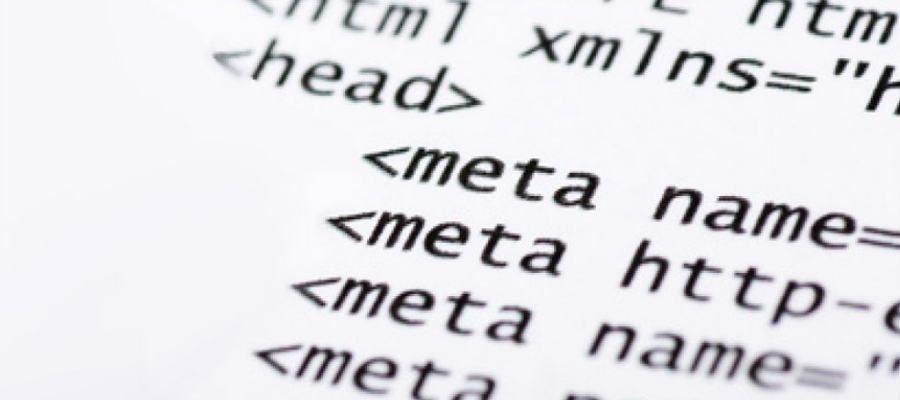
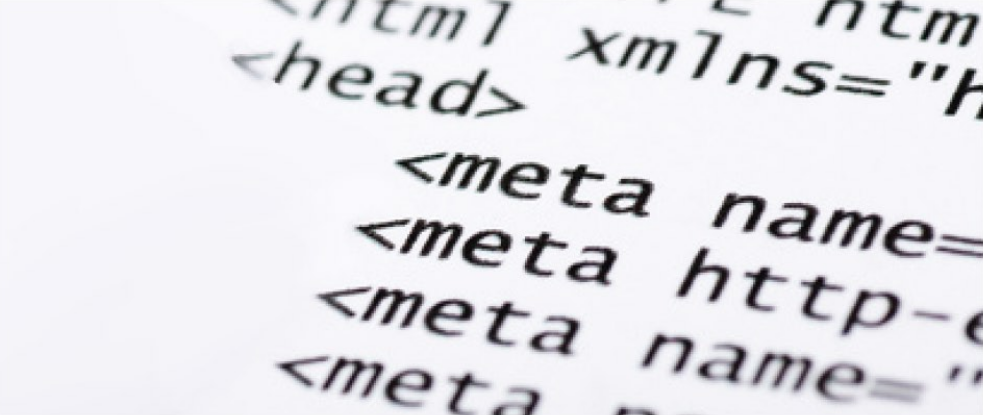
integrate code-review changes

diff --git a/index.html b/index.html
@@ -6,47 +6,47 @@
     <title>Ben's portfolio</title>
     <link rel="stylesheet" href="css/main.css">
   </head>
-  <body>
-    <main class="container">
-      <header class="item item-header">
-        <img class="udacity-img" src="img/udacity.svg" alt="udacity logo">
-        <section class="name-container">
-          <p>JANE DOETTE</p>
-          <p>FRONT-END NINJA</p>
-        </section>
-      </header>
-      <hr>
-      <article class="item">
-        <img class="web-img" src="img/web.png" alt="image with HTML code">
-      </article>
-      <article class="item">
-        <header class="work-item-header">
-          <h1>Featured Work</h1>
+  <body class="container">
+    <header class="item header">
+      <img class="header-picture" src="img/udacity.svg" alt="udacity logo">
+      <section class="header-id">
+        <p class="header-id-info header-id-name">JANE DOETTE</p>
+        <p class="header-id-info">FRONT-END NINJA</p>
+      </section>
+    </header>
+    <hr>
+    <main>
+      <section class="item">
+        <img class="web-picture" src="img/web.png" alt="image with HTML code">
+      </section>
+      <section class="item">
+        <header class="work-header">
+          <h1 class="work-header-label">Featured Work</h1>
         </header>
-        <section class="work-item-projects">
-          <section class="projects-item">
+        <section class="projects">
+          <article class="project">
             <figure>
-              <img src="img/project1.png" alt="first project">
-              <figcaption>APPIFY</figcaption>
+              <img class="project-picture" src="img/project1.png" alt="first project">
+              <figcaption class="project-figcaption">APPIFY</figcaption>
             </figure>
-            <a href="https://github.com/udacity/Appify/">https://github.com/udacity/Appify/</a>
-          </section>
-          <section class="projects-item">
+            <a class="project-anchor" href="https://github.com/udacity/Appify/" target="_blank">https://github.com/udacity/Appify/</a>
+          </article>
+          <article class="project">
             <figure>
-              <img src="img/project2.png" alt="second project">
-              <figcaption>SUNFLOWER</figcaption>
+              <img class="project-picture" src="img/project2.png" alt="second project">
+              <figcaption class="project-figcaption">SUNFLOWER</figcaption>
             </figure>
-            <a href="https://github.com/udacity/Sunflower/">https://github.com/udacity/Sunflower/</a>
-          </section>
-          <section class="projects-item">
+            <a class="project-anchor" href="https://github.com/udacity/Sunflower/" target="_blank">https://github.com/udacity/Sunflower/</a>
+          </article>
+          <article class="project">
             <figure>
-              <img src="img/project3.png" alt="third project">
-              <figcaption>BOKEH</figcaption>
+              <img class="project-picture" src="img/project3.png" alt="third project">
+              <figcaption class="project-figcaption">BOKEH</figcaption>
             </figure>
-            <a href="https://github.com/udacity/Bokeh/">https://github.com/udacity/Bokeh/</a>
-          </section>
+            <a class="project-anchor" href="https://github.com/udacity/Bokeh/" target="_blank">https://github.com/udacity/Bokeh/</a>
+          </article>
         </section>
-      </article>
+      </section>
     </main>
   </body>
 </html>

diff --git a/css/main.css b/css/main.css
@@ -3,7 +3,10 @@
   --blackcolor: #2d3c49;
 }
 
-img, embed, object, video {
+img,
+embed,
+object,
+video {
   max-width: 100%;
 }
 
@@ -21,12 +24,14 @@ figure {
   flex-direction: column;
   min-height: 90vh; /* do not use 'height' instead of 'min-height': content total height can be bigger than the viewport height */
   padding: 5vh;
+  padding-left: 10vw;
+  padding-right: 10vw;
 }
 
 @media screen and (max-width: 400px) {
   .container {
     min-height: 100vh;
-    padding: 0;
+    padding: 1vh;
   }
 }
 
@@ -37,7 +42,7 @@ figure {
   align-items: center;
 }
 
-.item-header {
+.header {
   display: flex;
   flex-direction: row;
   justify-content: space-between;
@@ -45,45 +50,40 @@ figure {
   flex-wrap: wrap;
 }
 
-.udacity-img {
+.header-picture {
   width: auto;
   height: 80px;
 }
 
-.web-img {
+/* scale-up and scale-down */
+.web-picture {
   width: 100%;
-  height: 350px;
-}
-
-@media screen and (max-width: 400px) {
-  .web-img {
-    height: 200px;
-  }
+  height: auto;
 }
 
 hr {
-    border-top: 3px solid;
-    margin: 1em 0;
-    border-color: var(--greycolor);
+  border-top: 3px solid;
+  margin: 1em 0;
+  border-color: var(--greycolor);
 }
 
-.name-container {
+.header-id {
   display: flex;
   flex-direction: column;
   justify-content: center;
   align-items: flex-end;
 }
 
-.name-container p {
+.header-id-info {
   color: var(--blackcolor);
   margin: 0;
 }
 
-.name-container p:first-child {
+.header-id-name {
   font-size: 3em;
 }
 
-.work-item-header {
+.work-header {
   display: flex;
   flex-direction: column;
   justify-content: center;
@@ -91,13 +91,13 @@ hr {
   align-self: flex-start;
 }
 
-.work-item-header h1 {
+.work-header-label {
   color: var(--greycolor);
   font-size: 2em;
   margin-bottom: 0;
 }
 
-.work-item-projects {
+.projects {
   display: flex;
   flex-direction: row;
   justify-content: space-between;
@@ -106,31 +106,34 @@ hr {
   width: 100%;
 }
 
-.work-item-projects figcaption {
-  color: var(--blackcolor);
-  font-size: 2em;
-}
-
-.work-item-projects a {
-  color: var(--blackcolor);
-  font-size: 0.9em;
-  text-decoration: none;
-}
-
-.projects-item {
+.project {
   display: flex;
   flex-direction: column;
   justify-content: center;
   align-items: center;
 }
 
-@media screen and (max-width: 400px) {
-  .projects-item {
-    margin: 2vw;
-  }
+.project-figcaption {
+  color: var(--blackcolor);
+  font-size: 2em;
+  text-align: center;
 }
 
-figure figcaption {
-  text-align: center;
+.project-anchor {
+  color: var(--blackcolor);
+  font-size: 0.9em;
+  text-decoration: none;
+}
+
+/* only scale-down */
+.project-picture {
+  max-width: 100%;
+  height: auto;
+}
+
+@media screen and (max-width: 400px) {
+  .project {
+    margin: 2vw;
+  }
 }
 
